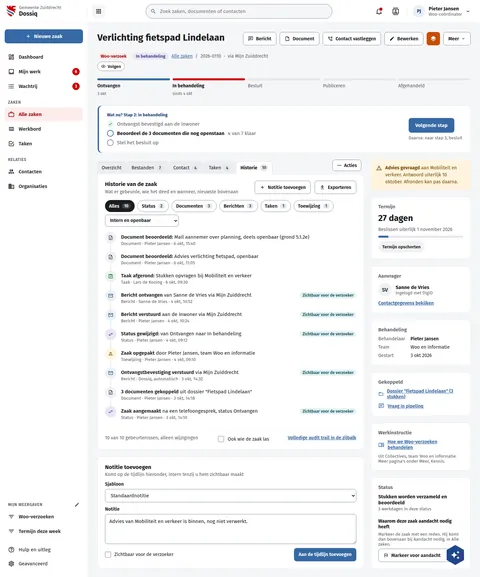
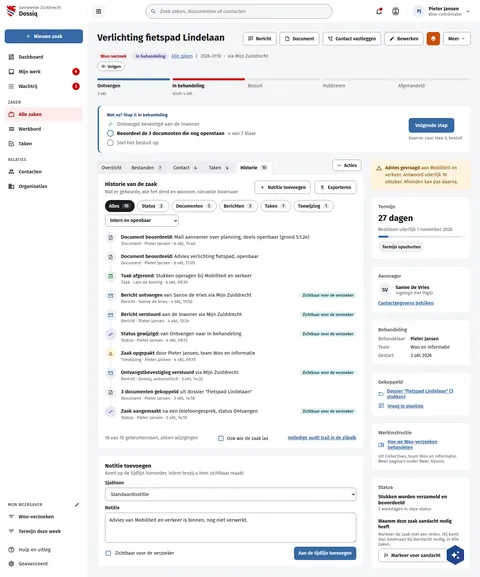
fix(screens): DqZaakHistorie draws Nextcloud's checkbox, as the settings boards do
"Ook wie de zaak las" and "Zichtbaar voor de verzoeker" are Nextcloud
checkboxes on live (20px outline in the primary), not native ones (r32:
visually differs 61%, property not identified). Same drawing as #585.

Assisted-by: ClaudeCode:claude-opus-5-5

Changed region(s): [[0.2188, 0.7799, 0.75, 0.9047], [0.2188, 0.9359, 0.75, 0.9983], [0.4375, 0.7487, 0.5625, 0.7799]]

diff --git a/preview/screens/boards/DqZaakHistorie.html b/preview/screens/boards/DqZaakHistorie.html
@@ -365,9 +365,9 @@ a{color:var(--sc-primary, #3669a5)}a:hover{color:var(--sc-primary-deep, #234a78)
                   </li>
                 
               </ol>
-              <div style="display: flex; flex-wrap: wrap; justify-content: space-between; gap: 8px; padding-top: 12px; border-top: 1px solid var(--sc-work-soft, #eef0f3); font-size: 14px; color: var(--sc-work-muted, #5e6168)"><span>10 van 10 gebeurtenissen, alleen wijzigingen</span><label style="display: inline-flex; gap: 8px; align-items: center; color: var(--sc-work-ink, #1b1c1d)"><input type="checkbox" style="width: 18px; height: 18px; accent-color: var(--sc-primary, #3669a5)">Ook wie de zaak las</label><a href="#" style="font-weight: 600">Volledige audit trail in de zijbalk</a></div>
+              <div style="display: flex; flex-wrap: wrap; justify-content: space-between; gap: 8px; padding-top: 12px; border-top: 1px solid var(--sc-work-soft, #eef0f3); font-size: 14px; color: var(--sc-work-muted, #5e6168)"><span>10 van 10 gebeurtenissen, alleen wijzigingen</span><label style="display: inline-flex; gap: 8px; align-items: center; color: var(--sc-work-ink, #1b1c1d)"><span role="checkbox" aria-checked="false" style="display: inline-flex; flex: none"><svg width="20" height="20" viewbox="0 0 24 24" fill="#3669a5" aria-hidden="true" style="fill:var(--sc-primary, #3669a5)"><path d="M19,3H5C3.89,3 3,3.89 3,5V19A2,2 0 0,0 5,21H19A2,2 0 0,0 21,19V5C21,3.89 20.1,3 19,3M19,5V19H5V5H19Z"></path></svg></span>Ook wie de zaak las</label><a href="#" style="font-weight: 600">Volledige audit trail in de zijbalk</a></div>
             </section>
-<section style="background: #ffffff; border: 1px solid var(--sc-work-line, #e4e6ea); border-radius: 12px; padding: 20px 22px; display: flex; flex-direction: column; gap: 12px"><div style="display: flex; flex-wrap: wrap; justify-content: space-between; align-items: flex-start; gap: 10px"><div style="display: flex; flex-direction: column; gap: 3px; min-width: 0"><h2 style="margin: 0; font-size: 17px; font-weight: 700">Notitie toevoegen</h2><span style="font-size: 14px; color: var(--sc-work-muted, #5e6168)">Komt op de tijdlijn hieronder, intern tenzij u hem zichtbaar maakt</span></div></div><div style="display: flex; flex-direction: column; gap: 6px; min-width: 0"><label for="hn1" style="font-size: 14px; font-weight: 600">Sjabloon</label><select id="hn1" style="box-sizing: border-box; width: 100%; height: 40px; padding: 0 12px; border: 1px solid var(--sc-work-field, #828a95); border-radius: 8px; background: #ffffff; font: 400 15px var(--sc-font, 'Fira Sans'), sans-serif; color: var(--sc-work-ink, #1b1c1d)"><option selected>Standaardnotitie</option><option>Telefoonnotitie</option><option>Overleg</option></select></div><div style="display: flex; flex-direction: column; gap: 6px; min-width: 0"><label for="hn2" style="font-size: 14px; font-weight: 600">Notitie</label><textarea id="hn2" rows="3" style="box-sizing: border-box; width: 100%; padding: 10px 12px; border: 1px solid var(--sc-work-field, #828a95); border-radius: 8px; background: #ffffff; font: 400 15px var(--sc-font, 'Fira Sans'), sans-serif; color: var(--sc-work-ink, #1b1c1d); line-height: 1.5; resize: vertical">Advies van Mobiliteit en verkeer is binnen, nog niet verwerkt.</textarea></div><div style="display: flex; flex-wrap: wrap; justify-content: space-between; align-items: center; gap: 10px"><label style="display: flex; gap: 10px; align-items: center; font-size: 14px; cursor: pointer"><input type="checkbox" style="width: 18px; height: 18px; margin: 0; accent-color: var(--sc-primary, #3669a5)">Zichtbaar voor de verzoeker</label><button type="button" style="display: inline-flex; align-items: center; gap: 8px; height: 40px; padding: 0 14px; border-radius: 8px; border: 0; background: var(--sc-primary, #3669a5); color: #ffffff; font: 600 14px var(--sc-font, 'Fira Sans'), sans-serif; white-space: nowrap">Aan de tijdlijn toevoegen</button></div></section>
+<section style="background: #ffffff; border: 1px solid var(--sc-work-line, #e4e6ea); border-radius: 12px; padding: 20px 22px; display: flex; flex-direction: column; gap: 12px"><div style="display: flex; flex-wrap: wrap; justify-content: space-between; align-items: flex-start; gap: 10px"><div style="display: flex; flex-direction: column; gap: 3px; min-width: 0"><h2 style="margin: 0; font-size: 17px; font-weight: 700">Notitie toevoegen</h2><span style="font-size: 14px; color: var(--sc-work-muted, #5e6168)">Komt op de tijdlijn hieronder, intern tenzij u hem zichtbaar maakt</span></div></div><div style="display: flex; flex-direction: column; gap: 6px; min-width: 0"><label for="hn1" style="font-size: 14px; font-weight: 600">Sjabloon</label><select id="hn1" style="box-sizing: border-box; width: 100%; height: 40px; padding: 0 12px; border: 1px solid var(--sc-work-field, #828a95); border-radius: 8px; background: #ffffff; font: 400 15px var(--sc-font, 'Fira Sans'), sans-serif; color: var(--sc-work-ink, #1b1c1d)"><option selected>Standaardnotitie</option><option>Telefoonnotitie</option><option>Overleg</option></select></div><div style="display: flex; flex-direction: column; gap: 6px; min-width: 0"><label for="hn2" style="font-size: 14px; font-weight: 600">Notitie</label><textarea id="hn2" rows="3" style="box-sizing: border-box; width: 100%; padding: 10px 12px; border: 1px solid var(--sc-work-field, #828a95); border-radius: 8px; background: #ffffff; font: 400 15px var(--sc-font, 'Fira Sans'), sans-serif; color: var(--sc-work-ink, #1b1c1d); line-height: 1.5; resize: vertical">Advies van Mobiliteit en verkeer is binnen, nog niet verwerkt.</textarea></div><div style="display: flex; flex-wrap: wrap; justify-content: space-between; align-items: center; gap: 10px"><label style="display: flex; gap: 10px; align-items: center; font-size: 14px; cursor: pointer"><span role="checkbox" aria-checked="false" style="display: inline-flex; flex: none"><svg width="20" height="20" viewbox="0 0 24 24" fill="#3669a5" aria-hidden="true" style="fill:var(--sc-primary, #3669a5)"><path d="M19,3H5C3.89,3 3,3.89 3,5V19A2,2 0 0,0 5,21H19A2,2 0 0,0 21,19V5C21,3.89 20.1,3 19,3M19,5V19H5V5H19Z"></path></svg></span>Zichtbaar voor de verzoeker</label><button type="button" style="display: inline-flex; align-items: center; gap: 8px; height: 40px; padding: 0 14px; border-radius: 8px; border: 0; background: var(--sc-primary, #3669a5); color: #ffffff; font: 600 14px var(--sc-font, 'Fira Sans'), sans-serif; white-space: nowrap">Aan de tijdlijn toevoegen</button></div></section>
           </div>
 
           <aside style="flex: 1 1 300px; min-width: 0; display: flex; flex-direction: column; gap: 20px">

diff --git a/screens-src/zuiddrecht/DqZaakHistorie.dc.html b/screens-src/zuiddrecht/DqZaakHistorie.dc.html
@@ -106,9 +106,9 @@ a{color:#3669a5}a:hover{color:#234a78}
                   </li>
                 </sc-for>
               </ol>
-              <div style="display: flex; flex-wrap: wrap; justify-content: space-between; gap: 8px; padding-top: 12px; border-top: 1px solid #eef0f3; font-size: 14px; color: #5e6168"><span>10 van 10 gebeurtenissen, alleen wijzigingen</span><label style="display: inline-flex; gap: 8px; align-items: center; color: #1b1c1d"><input type="checkbox" style="width: 18px; height: 18px; accent-color: #3669a5">Ook wie de zaak las</label><a href="#" style="font-weight: 600">Volledige audit trail in de zijbalk</a></div>
+              <div style="display: flex; flex-wrap: wrap; justify-content: space-between; gap: 8px; padding-top: 12px; border-top: 1px solid #eef0f3; font-size: 14px; color: #5e6168"><span>10 van 10 gebeurtenissen, alleen wijzigingen</span><label style="display: inline-flex; gap: 8px; align-items: center; color: #1b1c1d"><span role="checkbox" aria-checked="false" style="display: inline-flex; flex: none"><svg width="20" height="20" viewBox="0 0 24 24" fill="#3669a5" aria-hidden="true"><path d="M19,3H5C3.89,3 3,3.89 3,5V19A2,2 0 0,0 5,21H19A2,2 0 0,0 21,19V5C21,3.89 20.1,3 19,3M19,5V19H5V5H19Z"></path></svg></span>Ook wie de zaak las</label><a href="#" style="font-weight: 600">Volledige audit trail in de zijbalk</a></div>
             </section>
-<section style="background: #ffffff; border: 1px solid #e4e6ea; border-radius: 12px; padding: 20px 22px; display: flex; flex-direction: column; gap: 12px"><div style="display: flex; flex-wrap: wrap; justify-content: space-between; align-items: flex-start; gap: 10px"><div style="display: flex; flex-direction: column; gap: 3px; min-width: 0"><h2 style="margin: 0; font-size: 17px; font-weight: 700">Notitie toevoegen</h2><span style="font-size: 14px; color: #5e6168">Komt op de tijdlijn hieronder, intern tenzij u hem zichtbaar maakt</span></div></div><div style="display: flex; flex-direction: column; gap: 6px; min-width: 0"><label for="hn1" style="font-size: 14px; font-weight: 600">Sjabloon</label><select id="hn1" style="box-sizing: border-box; width: 100%; height: 40px; padding: 0 12px; border: 1px solid #828a95; border-radius: 8px; background: #ffffff; font: 400 15px 'Fira Sans', sans-serif; color: #1b1c1d"><option selected>Standaardnotitie</option><option>Telefoonnotitie</option><option>Overleg</option></select></div><div style="display: flex; flex-direction: column; gap: 6px; min-width: 0"><label for="hn2" style="font-size: 14px; font-weight: 600">Notitie</label><textarea id="hn2" rows="3" style="box-sizing: border-box; width: 100%; padding: 10px 12px; border: 1px solid #828a95; border-radius: 8px; background: #ffffff; font: 400 15px 'Fira Sans', sans-serif; color: #1b1c1d; line-height: 1.5; resize: vertical">Advies van Mobiliteit en verkeer is binnen, nog niet verwerkt.</textarea></div><div style="display: flex; flex-wrap: wrap; justify-content: space-between; align-items: center; gap: 10px"><label style="display: flex; gap: 10px; align-items: center; font-size: 14px; cursor: pointer"><input type="checkbox" style="width: 18px; height: 18px; margin: 0; accent-color: #3669a5">Zichtbaar voor de verzoeker</label><button type="button" style="display: inline-flex; align-items: center; gap: 8px; height: 40px; padding: 0 14px; border-radius: 8px; border: 0; background: #3669a5; color: #ffffff; font: 600 14px 'Fira Sans', sans-serif; white-space: nowrap">Aan de tijdlijn toevoegen</button></div></section>
+<section style="background: #ffffff; border: 1px solid #e4e6ea; border-radius: 12px; padding: 20px 22px; display: flex; flex-direction: column; gap: 12px"><div style="display: flex; flex-wrap: wrap; justify-content: space-between; align-items: flex-start; gap: 10px"><div style="display: flex; flex-direction: column; gap: 3px; min-width: 0"><h2 style="margin: 0; font-size: 17px; font-weight: 700">Notitie toevoegen</h2><span style="font-size: 14px; color: #5e6168">Komt op de tijdlijn hieronder, intern tenzij u hem zichtbaar maakt</span></div></div><div style="display: flex; flex-direction: column; gap: 6px; min-width: 0"><label for="hn1" style="font-size: 14px; font-weight: 600">Sjabloon</label><select id="hn1" style="box-sizing: border-box; width: 100%; height: 40px; padding: 0 12px; border: 1px solid #828a95; border-radius: 8px; background: #ffffff; font: 400 15px 'Fira Sans', sans-serif; color: #1b1c1d"><option selected>Standaardnotitie</option><option>Telefoonnotitie</option><option>Overleg</option></select></div><div style="display: flex; flex-direction: column; gap: 6px; min-width: 0"><label for="hn2" style="font-size: 14px; font-weight: 600">Notitie</label><textarea id="hn2" rows="3" style="box-sizing: border-box; width: 100%; padding: 10px 12px; border: 1px solid #828a95; border-radius: 8px; background: #ffffff; font: 400 15px 'Fira Sans', sans-serif; color: #1b1c1d; line-height: 1.5; resize: vertical">Advies van Mobiliteit en verkeer is binnen, nog niet verwerkt.</textarea></div><div style="display: flex; flex-wrap: wrap; justify-content: space-between; align-items: center; gap: 10px"><label style="display: flex; gap: 10px; align-items: center; font-size: 14px; cursor: pointer"><span role="checkbox" aria-checked="false" style="display: inline-flex; flex: none"><svg width="20" height="20" viewBox="0 0 24 24" fill="#3669a5" aria-hidden="true"><path d="M19,3H5C3.89,3 3,3.89 3,5V19A2,2 0 0,0 5,21H19A2,2 0 0,0 21,19V5C21,3.89 20.1,3 19,3M19,5V19H5V5H19Z"></path></svg></span>Zichtbaar voor de verzoeker</label><button type="button" style="display: inline-flex; align-items: center; gap: 8px; height: 40px; padding: 0 14px; border-radius: 8px; border: 0; background: #3669a5; color: #ffffff; font: 600 14px 'Fira Sans', sans-serif; white-space: nowrap">Aan de tijdlijn toevoegen</button></div></section>
           </div>
 
           <aside style="flex: 1 1 300px; min-width: 0; display: flex; flex-direction: column; gap: 20px">
